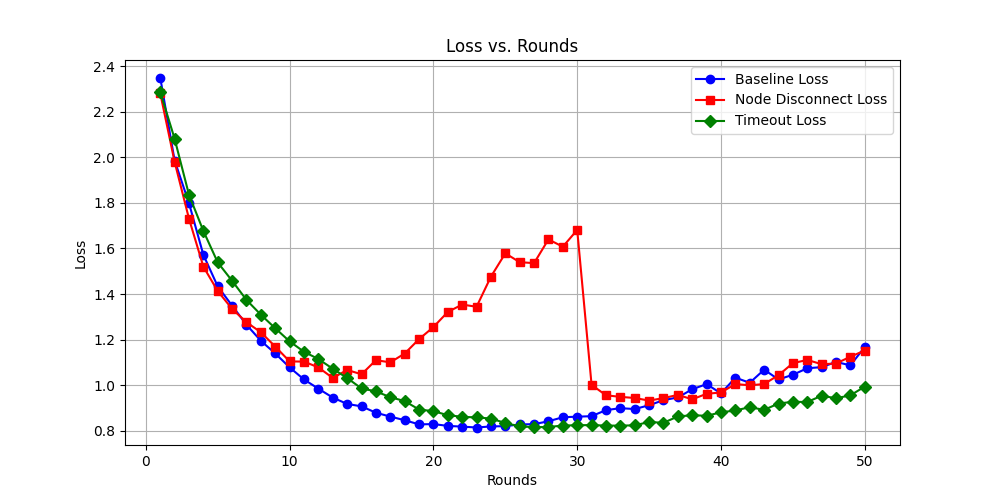
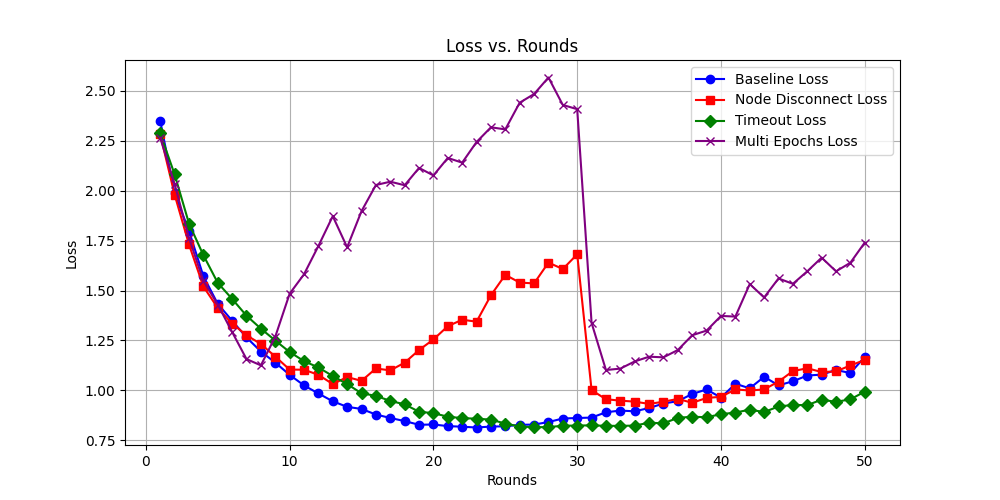
Dump for plots and related code

diff --git a/RunArtifacts/RCAVG/plot.py b/RunArtifacts/RCAVG/plot.py
@@ -1,5 +1,6 @@
 import re
 import matplotlib.pyplot as plt
+import numpy as np
 
 # Function to extract loss per round from log file
 def extract_loss(file_path):
@@ -38,16 +39,24 @@ def extract_accuracy(file_path):
 
 # File paths
 logs = {
-    "Baseline": "baseline.log",
-    "Node Disconnect": "nodeDisconnect.log",
-    "Timeout": "timeout40s.log"
+ #   "IID Baseline": "baseline.log",
+    "Non-IID Baseline": "niid_baseline.log",
+ #   "Node Disconnect": "nodeDisconnect.log",
+ #   "Timeout": "timeout40s.log",
+ #   "Non-IID Disconnect": "noniid_s42.log",
+    "Non-IID Client 4 Disconnect": "client4Disconnect_niid.log"
+    #"Multi Epochs": "multi_epoch.log"
 }
 
 # Colors and markers for plotting
 plot_styles = {
-    "Baseline": ("blue", "o"),
-    "Node Disconnect": ("red", "s"),
-    "Timeout": ("green", "D")
+ #   "IID Baseline": ("blue", "o"),
+    "Non-IID Baseline": ("purple", "x"),
+ #   "Node Disconnect": ("red", "s"),
+ #   "Timeout": ("green", "D"),
+ #   "Non-IID Disconnect": ("orange", "^"),
+    "Non-IID Client 4 Disconnect": ("cyan", "v")
+    #"Multi Epochs": ("purple", "x")
 }
 
 # Extract loss and accuracy data for all experiments
@@ -58,6 +67,28 @@ for label, log_file in logs.items():
     loss_data[label] = extract_loss(log_file)
     accuracy_data[label] = extract_accuracy(log_file)
 
+# Plot and save accuracy vs. rounds with a focus on 50% to 70% accuracy
+plt.figure(figsize=(10, 12))
+for label, (rounds, accuracies) in accuracy_data.items():
+    # Filter accuracies and corresponding rounds to focus on 0.5 to 0.7
+    # filtered_rounds = [r for r, a in zip(rounds, accuracies) if 0.5 <= a <= 0.7]
+    # filtered_accuracies = [a for a in accuracies if 0.5 <= a <= 0.7]
+    # plt.plot(filtered_rounds, filtered_accuracies, marker=plot_styles[label][1], color=plot_styles[label][0], label=f"{label} Accuracy")
+    plt.plot(rounds, accuracies, marker=plot_styles[label][1], color=plot_styles[label][0], label=f"{label} Accuracy")
+
+plt.xlabel("Rounds")
+plt.ylabel("Accuracy")
+plt.ylim(0.1,0.8)  # Set y-axis limits to 0.5 to 0.7
+plt.title("Accuracy vs. Rounds")
+plt.legend()
+plt.grid(True)
+plt.tight_layout()
+plt.savefig("accuracy_vs_rounds_big.png")
+plt.close()
+
+print("Focused accuracy plot saved as accuracy_vs_rounds_50_to_70.png")
+
+"""
 # Plot and save loss vs. rounds with overlay
 plt.figure(figsize=(10, 5))
 for label, (rounds, losses) in loss_data.items():
@@ -67,19 +98,21 @@ plt.ylabel("Loss")
 plt.title("Loss vs. Rounds")
 plt.legend()
 plt.grid(True)
-plt.savefig("loss_vs_rounds_overlay.png")
+plt.savefig("loss_vs_rounds_overlay_2_expts.png")
 plt.close()
 
 # Plot and save accuracy vs. rounds with overlay
-plt.figure(figsize=(10, 5))
+#plt.figure(figsize=(10, 5))
 for label, (rounds, accuracies) in accuracy_data.items():
     plt.plot(rounds, accuracies, marker=plot_styles[label][1], color=plot_styles[label][0], label=f"{label} Accuracy")
 plt.xlabel("Rounds")
 plt.ylabel("Accuracy")
+plt.tight_layout()
 plt.title("Accuracy vs. Rounds")
 plt.legend()
 plt.grid(True)
-plt.savefig("accuracy_vs_rounds_overlay.png")
+plt.savefig("accuracy_vs_rounds_overlay_2_expts.png")
 plt.close()
 
 print("Overlay plots saved as loss_vs_rounds_overlay.png and accuracy_vs_rounds_overlay.png")
+"""

diff --git a/RunArtifacts/MCAVG/plot.py b/RunArtifacts/MCAVG/plot.py
@@ -40,14 +40,16 @@ def extract_accuracy(file_path):
 logs = {
     "Baseline": "baseline.log",
     "Node Disconnect": "nodeDisconnect.log",
-    "Timeout": "timeout20s.log"
+    "Timeout": "timeout20s.log",
+    "Non IID Disconnect": "niid_disconnect.log"
 }
 
 # Colors and markers for plotting
 plot_styles = {
     "Baseline": ("blue", "o"),
     "Node Disconnect": ("red", "s"),
-    "Timeout": ("green", "D")
+    "Timeout": ("green", "D"),
+    "Non IID Disconnect": ("orange", "^")
 }
 
 # Extract loss and accuracy data for all experiments
@@ -67,7 +69,7 @@ plt.ylabel("Loss")
 plt.title("Loss vs. Rounds")
 plt.legend()
 plt.grid(True)
-plt.savefig("loss_vs_rounds_overlay.png")
+plt.savefig("loss_vs_rounds_overlay_niid.png")
 plt.close()
 
 # Plot and save accuracy vs. rounds with overlay
@@ -79,7 +81,7 @@ plt.ylabel("Accuracy")
 plt.title("Accuracy vs. Rounds")
 plt.legend()
 plt.grid(True)
-plt.savefig("accuracy_vs_rounds_overlay.png")
+plt.savefig("accuracy_vs_rounds_overlay_niid.png")
 plt.close()
 
 print("Overlay plots saved as loss_vs_rounds_overlay.png and accuracy_vs_rounds_overlay.png")

diff --git a/RunArtifacts/RMAVG/plot.py b/RunArtifacts/RMAVG/plot.py
@@ -38,16 +38,18 @@ def extract_accuracy(file_path):
 
 # File paths
 logs = {
-    "Baseline": "baseline.log",
+    "IID Baseline": "baseline.log",
     "Node Disconnect": "nodeDisconnect.log",
-    "Timeout": "timeout60s.log"
+    "Timeout": "timeout60s.log",
+    "Non-IID Disconnect": "noniid_s43.log"
 }
 
 # Colors and markers for plotting
 plot_styles = {
-    "Baseline": ("blue", "o"),
+    "IID Baseline": ("blue", "o"),
     "Node Disconnect": ("red", "s"),
-    "Timeout": ("green", "D")
+    "Timeout": ("green", "D"),
+    "Non-IID Disconnect": ("orange", "^")
 }
 
 # Extract loss and accuracy data for all experiments
